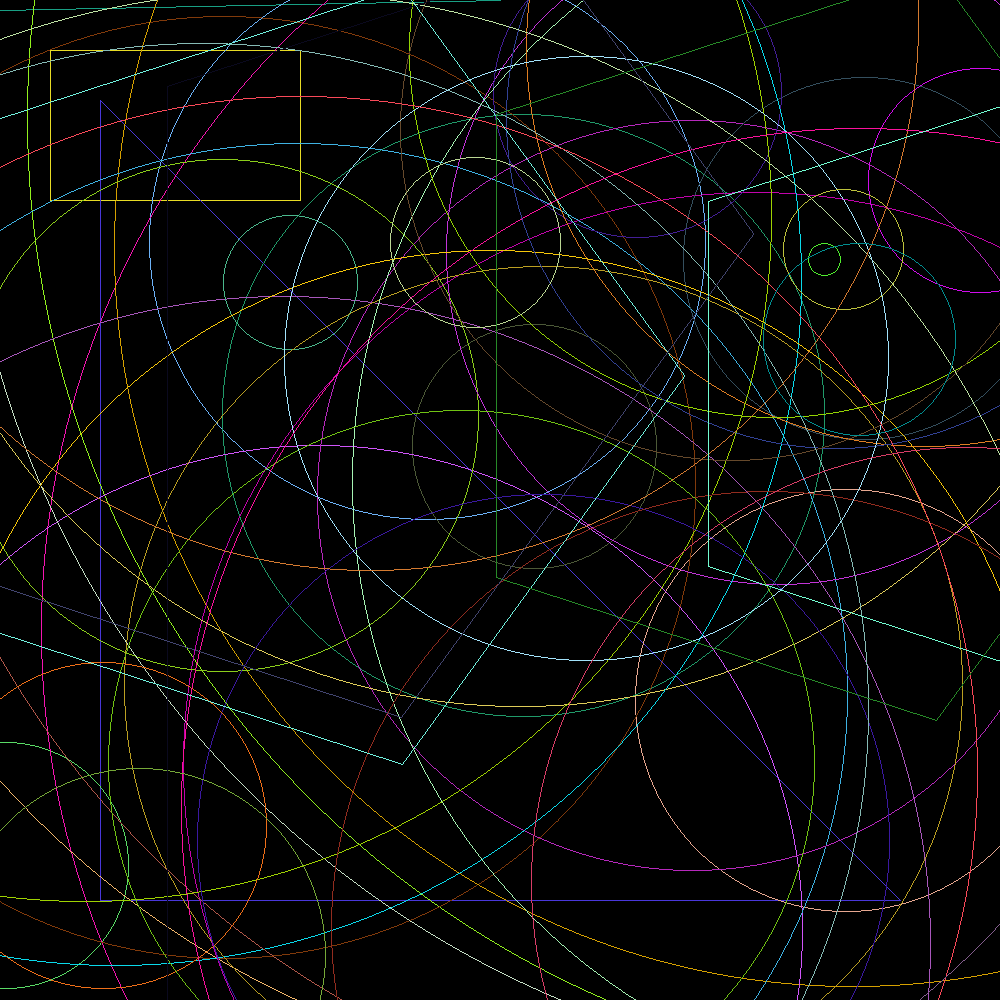
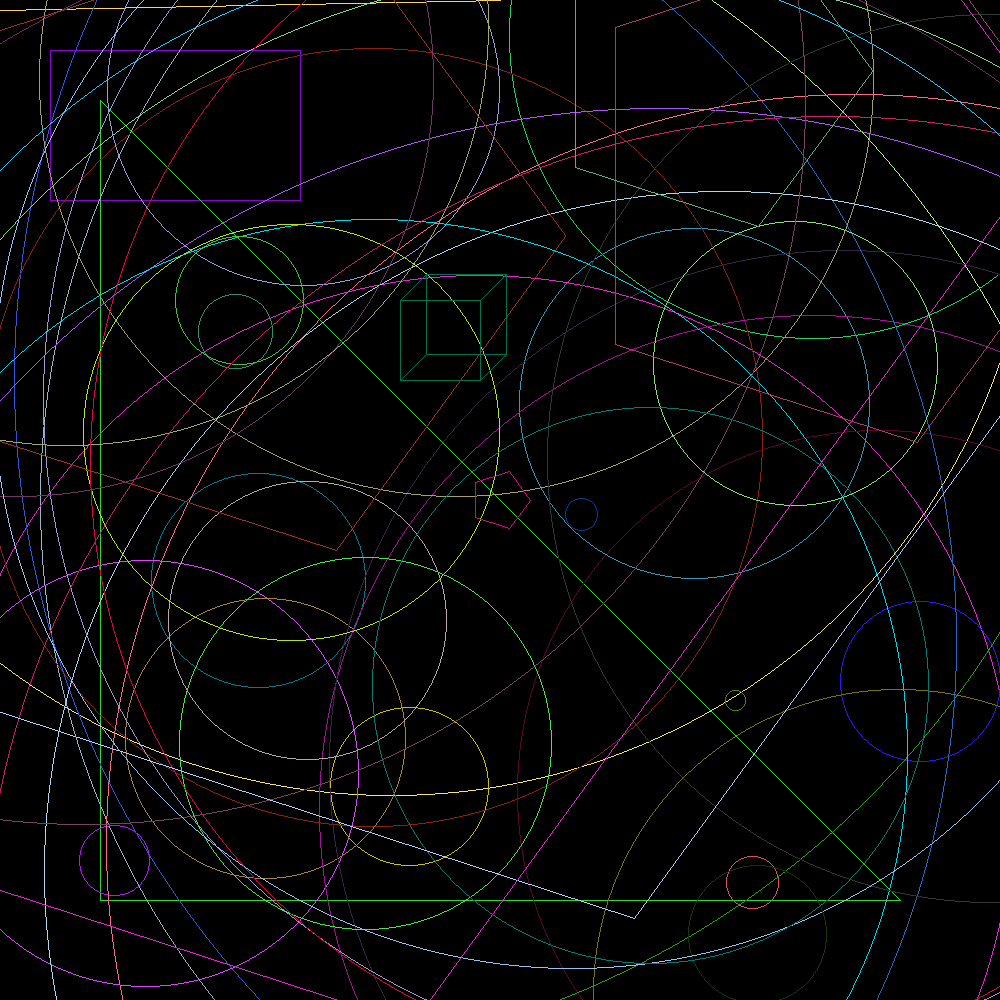
cube

diff --git a/Cube.java b/Cube.java
@@ -1,0 +1,64 @@
+
+import java.awt.Color;
+
+public class Cube implements Drawable {
+    Point point;
+    int side;
+
+    public Cube(Point point, int side) {
+        this.point = point;
+        this.side = side;
+    }
+
+    public static Cube random(int width, int height) {
+        return new Cube(Point.random(width, height), (int) (Math.random() * Math.max(width, height)));
+    }
+
+    @Override
+    public void draw(Displayable image) {
+        Point p1 = point;
+        Point p2 = new Point(p1.x + side, p1.y);
+        Point p3 = new Point(p1.x + side, p1.y + side);
+        Point p4 = new Point(p1.x, p1.y + side);
+
+        int d = Math.abs((p3.x - p1.x)) / 3;
+
+        Point p1_b = new Point(p1.x + d, p1.y - d);
+        Point p2_b = new Point(p2.x + d, p2.y - d);
+        Point p3_b = new Point(p3.x + d, p3.y - d);
+        Point p4_b = new Point(p4.x + d, p4.y - d);
+
+        Color color = getColor();
+
+        System.out.println(p1.x);
+        System.out.println(p1.y);
+        System.out.println(p3.x);
+        System.out.println(p3.y);
+
+        Rectangle rec1 = new Rectangle(p1, p3);
+        rec1.color = color;
+        rec1.draw(image);
+        Rectangle rec2 = new Rectangle(p1_b, p3_b);
+        rec2.color = color;
+        rec2.draw(image);
+
+        Line line1 = new Line(p1, p1_b);
+        line1.color = color;
+        line1.draw(image);
+        Line line2 = new Line(p2, p2_b);
+        line2.color = color;
+        line2.draw(image);
+        Line line3 = new Line(p3, p3_b);
+        line3.color = color;
+        line3.draw(image);
+        Line line4 = new Line(p4, p4_b);
+        line4.color = color;
+        line4.draw(image);
+
+    }
+
+    @Override
+    public Color getColor() {
+        return new Color((int) (Math.random() * 255), (int) (Math.random() * 255), (int) (Math.random() * 255));
+    }
+}

diff --git a/Rectangle.java b/Rectangle.java
@@ -4,6 +4,7 @@ import java.awt.Color;
 public class Rectangle implements Drawable {
     Point p1;
     Point p3;
+    Color color;
 
     public Rectangle(Point p1, Point p3) {
         this.p1 = p1;
@@ -13,9 +14,10 @@ public class Rectangle implements Drawable {
     @Override
     public void draw(Displayable image) {
         Point p2 = new Point(p1.x, p3.y);
-        Point p4 = new Point(p3.x, p1.x);
-
-        Color color = getColor();
+        Point p4 = new Point(p3.x, p1.y);
+        if (color == null) {
+            color = getColor();
+        }
         Line line1 = new Line(p1, p2);
         line1.color = color;
         Line line2 = new Line(p2, p3);

diff --git a/Pentagon.java b/Pentagon.java
@@ -22,7 +22,7 @@ public class Pentagon implements Drawable {
 
         for (int i = 0; i <= 5; i++) {
             Point last_point = new Point(last_x,last_y);
-            double angle =  ((double) i * (360. / 5.) * Math.PI ) / 180. ;
+            double angle =  ((double) i * (360.0 / 5.) * Math.PI ) / 180. ;
             int x = (int) Math.floor(radius * Math.cos(angle) + (double) center.x) ;
             int y = (int) Math.floor(radius * Math.sin(angle) + (double) center.y) ;
             last_x = x;

diff --git a/Main.java b/Main.java
@@ -32,6 +32,11 @@ public class Main {
             Circle circle = Circle.random(image.getWidth(), image.getHeight());
             circle.draw(image);
         }
+        Pentagon pen1 = new Pentagon(new Point(500, 500), 30);
+        pen1.draw(image);
+
+        Cube cube = new Cube(new Point(400, 300), 80);
+        cube.draw(image);
 
         for (int i = 0; i < 5; i++) {
             Pentagon pen = Pentagon.random(image.getWidth(), image.getHeight());
